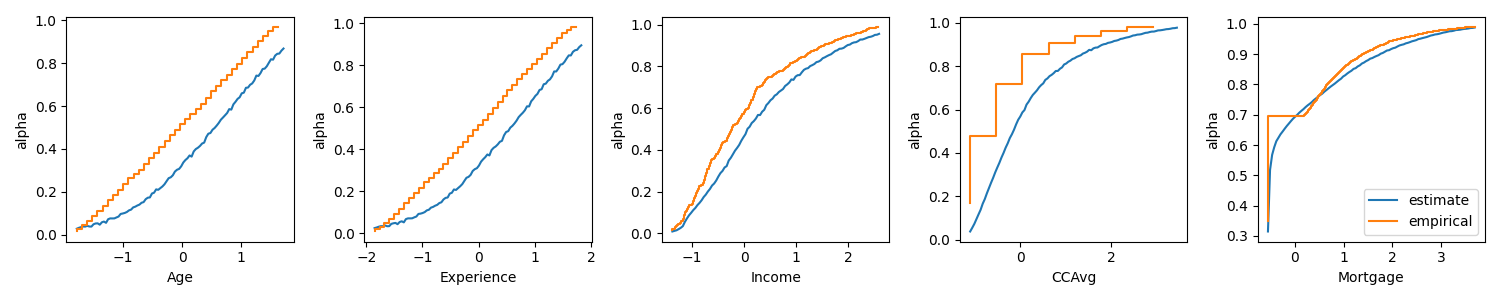
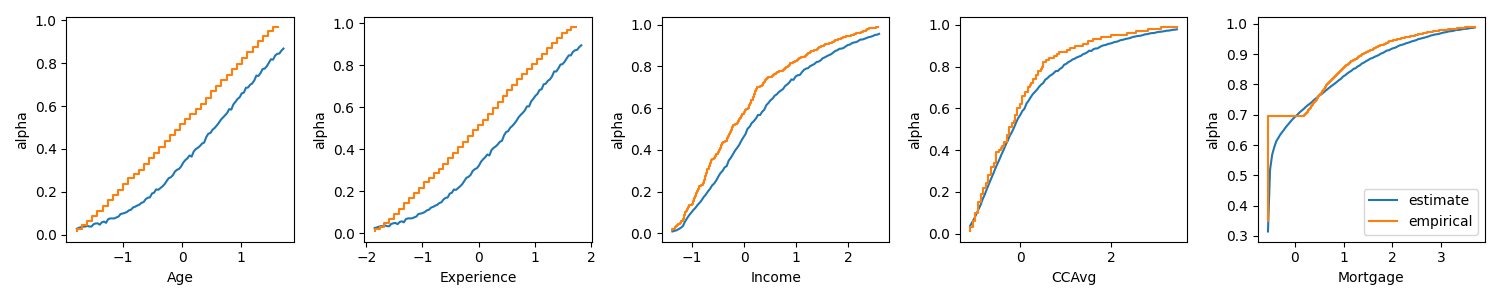
minor updates

diff --git a/calibration.py b/calibration.py
@@ -168,7 +168,7 @@ def main():
         [np.quantile(df.to_numpy()[:, j], q=0.01)],
         [np.quantile(df.to_numpy()[:, j], q=0.99)])][0]
     #%%
-    """Calibration Step 2. Discretization F(x) = F(x + 0.5) - F(x - 0.5)"""
+    """Calibration Step 2. Discretization F^*(x) = F^*(x-1) + F(x+0.5) - F(x-0.5)"""
     alpha_cal = []
     for i in range(len(alpha_hat)-1):
         alpha_cal.append((alpha_hat[i+1] - alpha_hat[i]).item())

diff --git a/inference.py b/inference.py
@@ -139,7 +139,6 @@ def main():
             'Age',
             'Experience',
             'Income', 
-            'CCAvg',
             'Mortgage']
         
     elif config["dataset"] == "adult":
